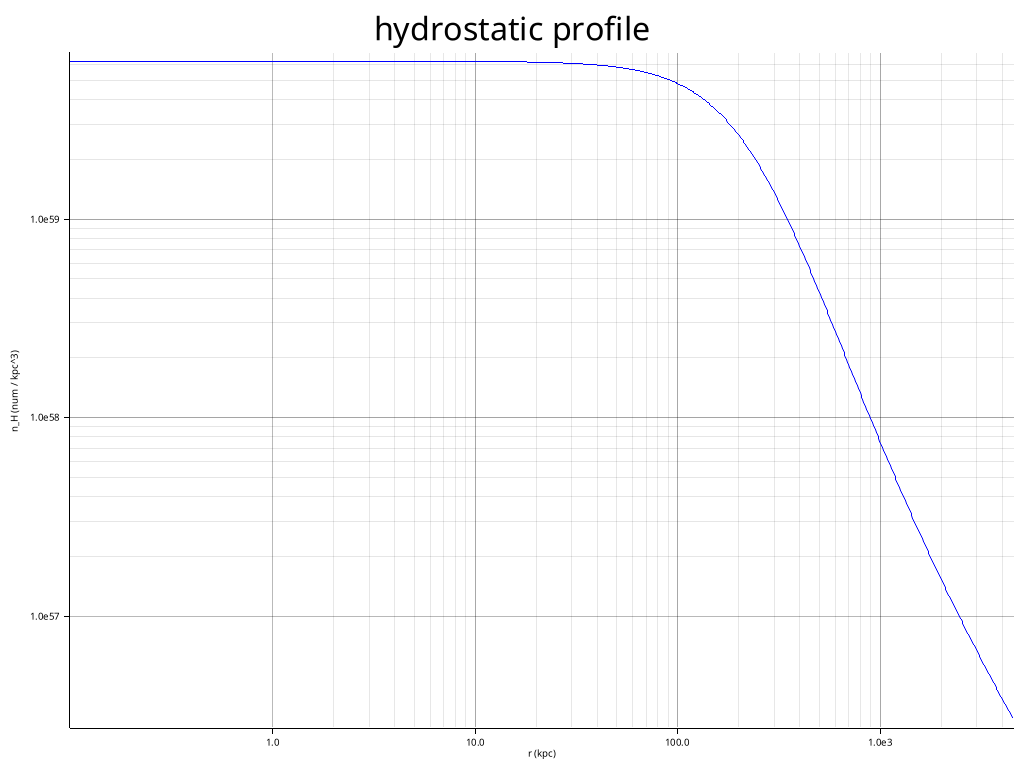
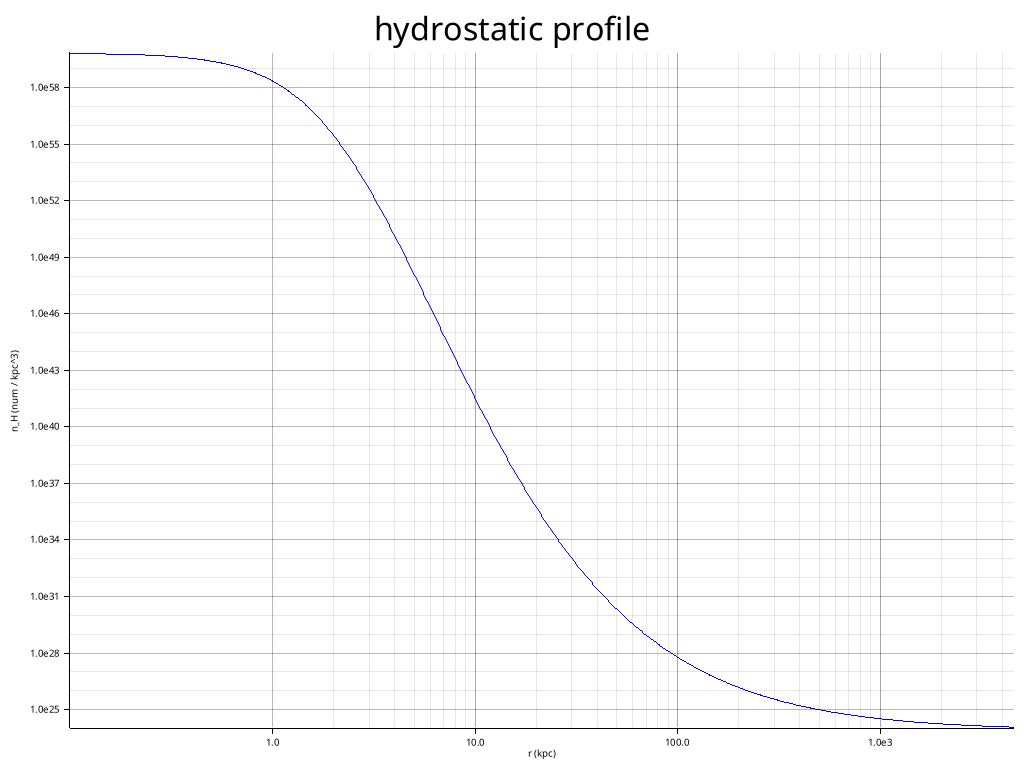
added core collapse profiles

diff --git a/src/hydrostatics.rs b/src/hydrostatics.rs
@@ -212,6 +212,81 @@ pub fn isothermal_abg_background(
     .unwrap();
 }
 
+pub fn isothermal_core_collapse_background(
+    temp: f64,
+    rho_s_0: f64,
+    r_s_0: f64,
+    collapse_progress: f64,
+    bounds: (f64, f64),
+    rho_center: f64,
+) {
+    let rho = |r: f64| -> f64 {
+        // https://arxiv.org/pdf/2406.10753 eqn 1 & 2
+        let tau = collapse_progress;
+        let rho_s = rho_s_0 * (2.033 + 0.7381*tau + 7.264*tau.powi(5) - 12.73*tau.powi(7) + 9.915*tau.powi(9) + (1.0 - 2.033)*(tau + 0.001).ln()/(0.001_f64).ln());
+        let r_s = r_s_0 * (0.7178 - 0.1026*tau + 0.2474*tau.powi(2) - 0.4079*tau.powi(3) + (1.0 - 0.7178)*(tau + 0.001).ln()/(0.001_f64).ln());
+        let r_c = r_s_0 * (2.555*tau.sqrt() - 3.632*tau + 2.131*tau.powi(2) - 1.415*tau.powi(3) + 0.4683*tau.powi(4));
+
+        rho_s / (((r.powi(4) + r_c.powi(4)).sqrt().sqrt()/r_s) * (1.0 + (r/r_s)).powi(2))
+    };
+
+    let r_points = get_r_points(bounds);
+
+    let dark_matter_rho_points = get_rho_points(rho, &r_points);
+
+    let external_field = get_force_points(dark_matter_rho_points, &r_points);
+
+    let temperature_points = vec![temp; r_points.len()];
+
+    let rho_points =
+        get_hydrostatic_profile(&r_points, external_field, temperature_points, rho_center);
+
+    let number_density = {
+        let mut num_density = Vec::with_capacity(rho_points.len());
+        for i in 0..rho_points.len() {
+            num_density.push(rho_points[i] / M_PROTON)
+        }
+        num_density
+    };
+
+    plot_function(
+        &r_points,
+        &number_density,
+        "profile.png",
+        "hydrostatic profile",
+        "r (kpc)",
+        "n_H (num / kpc^3)",
+    )
+    .unwrap();
+
+    let column_density = {
+        let mut col_dens = get_column_density(number_density, &r_points);
+        for i in 0..col_dens.len() {
+            col_dens[i] /= CM_IN_KPC.powi(2);
+        }
+        col_dens
+    };
+
+    let angular_points = {
+        let mut ang_points = r_points.clone();
+        for i in 0..ang_points.len() {
+            ang_points[i] /= DISTANCE; // radians
+            ang_points[i] /= ARC_MIN; // arc mins
+        }
+        ang_points
+    };
+
+    plot_function(
+        &angular_points,
+        &column_density,
+        "column.png",
+        "hydrostatic column density",
+        "r (arcmin)",
+        "n_H (num / cm^2)",
+    )
+    .unwrap();
+}
+
 #[cfg(test)]
 mod tests {
     use super::*;

diff --git a/src/main.rs b/src/main.rs
@@ -1,6 +1,6 @@
 use std::f64::consts::PI;
 
-use crate::hydrostatics::isothermal_abg_background;
+use crate::hydrostatics::{isothermal_abg_background, isothermal_core_collapse_background};
 
 mod hydrostatics;
 mod plotting;
@@ -23,14 +23,23 @@ fn main() {
     let scale_radius = sound_speed_squared.sqrt() / (4.0 * PI * hydrostatics::GG * rho_center_approx);
     println!("Center rho set to: {rho_center_approx}");
 
-    isothermal_abg_background(
+    // isothermal_abg_background(
+    //     temperature,
+    //     1.0,
+    //     3.0,
+    //     1.0,
+    //     0.0e7,
+    //     3.0,
+    //     (1e-1, 10.0*scale_radius),
+    //     rho_center_approx,
+    // );
+
+    isothermal_core_collapse_background(
         temperature,
-        1.0,
+        3e7,
         3.0,
-        1.0,
-        0.0e7,
-        3.0,
+        0.2,
         (1e-1, 10.0*scale_radius),
-        rho_center_approx,
+        rho_center_approx
     );
 }
